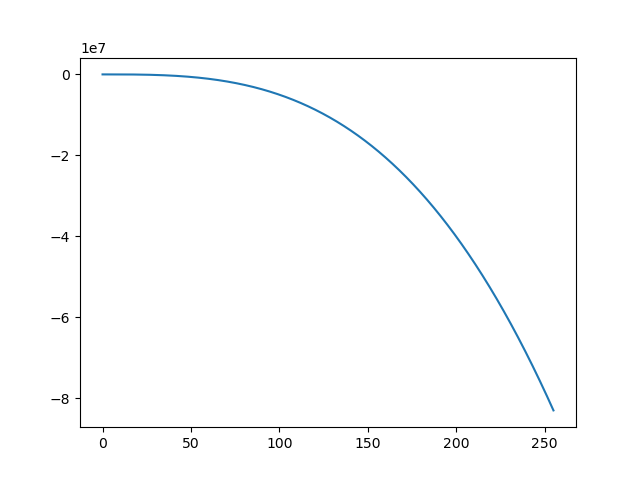
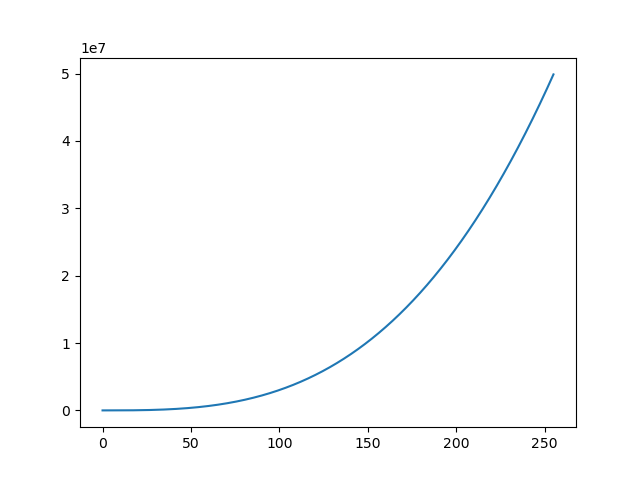
Current

diff --git a/pyQT/main.py b/pyQT/main.py
@@ -3,7 +3,7 @@ import sys
 from PyQt5.QtCore import Qt
 from PyQt5.QtGui import QPixmap
 from PyQt5.QtWidgets import QWidget, QHBoxLayout, QLabel, QVBoxLayout, QSlider, QTabWidget, QComboBox, QLineEdit, \
-    QPushButton, QCheckBox
+    QPushButton, QCheckBox, QFileDialog
 from PyQt5.QtWidgets import QApplication
 
 import cv2
@@ -14,6 +14,12 @@ from pyQT.curveTool import curveTool
 from pyQT.BrightnessSaturation import BrightnessSaturation
 
 class UI:
+
+    #def load_image(self):
+    #   path, _ = QFileDialog.getOpenFileName(None, "Load Image", "")
+    # if path:
+    #      self.load_file(path)
+    #    self.pixmap =
 
     def TabSwitch(self, index):
         if index == 0:
@@ -32,17 +38,21 @@ class UI:
         self.window.update()
 
     def updateWindow(self):
+        self.cvimage = cv2.add()
         self.pixmap = QPixmap('edit.png')
         for i in self.imageLabel:
             i.setPixmap(self.pixmap)
-        self.cvimage = cv2.imread('edit.png')
-        self.cvmask = cv2.imread('selected_mask.jpg')
+        self.current_edit = cv2.imread("current_edit.png")
+        self.cvimageNoBlur = cv2.imread('noBlur.png')
         self.window.update()
 
     def __init__(self):
+        self.imageRecord = []
         cvmainimage = cv2.imread('img.jpg')
         cv2.imwrite('edit.png', cvmainimage)
+        cv2.imwrite('noBlur.png', cvmainimage)
         self.cvimage = cv2.imread('edit.png')
+        self.cvimageNoBlur = cv2.imread('noBlur.png')
         self.cvmask = cv2.imread('selected_mask.jpg')
         app = QApplication(sys.argv)
         self.maskSelection = MaskSelection()
@@ -50,10 +60,11 @@ class UI:
         self.curveTool = curveTool()
         self.brigtnessSaturation = BrightnessSaturation()
         self.window = QWidget()
+        saveFileButton = QPushButton()
         imgSettingLayout = [QHBoxLayout(), QHBoxLayout(), QHBoxLayout(), QHBoxLayout()]
         settingLayout = [QVBoxLayout(), QVBoxLayout(), QVBoxLayout(), QVBoxLayout()]
         self.imageLabel = [QLabel(), QLabel(), QLabel(), QLabel()]
-        pixmap = QPixmap('img.jpg')
+        self.pixmap = QPixmap('img.jpg')
         tabWindow = QTabWidget()
         tabMask = QWidget()
         tabSlider = QWidget()
@@ -65,30 +76,39 @@ class UI:
         tabWindow.currentChanged.connect(self.TabSwitch)
 
         # Tab1
-        labelList = QLabel("item1\nitem2")
         labelInstance = QLabel("Instance Selection")
         labelInstance.setFixedWidth(200)
         dropdownInstance = QComboBox()
+        for mask in self.maskManager.maskList:
+            dropdownInstance.addItem(mask.maskName)
+        dropdownInstance.activated.connect(self.maskManager.instanceDropDownChange)
+
         labelClasses = QLabel("Classes")
         dropdownClasses = QComboBox()
+        for maskClass in self.maskManager.classList:
+            dropdownClasses.addItem(maskClass.groupName)
+        dropdownClasses.activated.connect(self.maskManager.classDropDownChange)
+
         labelGroups = QLabel("Groups")
         dropdownGroups = QComboBox()
         dropdownGroups.addItem("item1")
         dropdownGroups.addItem("item2")
+        dropdownGroups.activated.connect(self.maskManager.groupDropDownChange)
+
         labelSelectedMasksList = QLabel("SelectedMasks")
+        labelList = QLabel("item1\nitem2")
+
         settingLayout[0].setAlignment(Qt.AlignmentFlag.AlignTop)
         settingLayout[0].addWidget(labelInstance)
-        dropdownInstance.addItem("item1")
-        dropdownInstance.addItem("item2")
         settingLayout[0].addWidget(dropdownInstance)
         settingLayout[0].addWidget(labelClasses)
-        dropdownClasses.addItem("item1")
-        dropdownClasses.addItem("item2")
         settingLayout[0].addWidget(dropdownClasses)
         settingLayout[0].addWidget(labelGroups)
         settingLayout[0].addWidget(dropdownGroups)
         settingLayout[0].addWidget(labelSelectedMasksList)
         settingLayout[0].addWidget(labelList)
+        #settingLayout[0].addWidget(saveFileButton)
+        #saveFileButton.pressed.connect(self.load_image)
 
         # Tab2
         labelBrightness = QLabel("Brightness")
@@ -114,6 +134,7 @@ class UI:
         sliderSaturation.valueChanged.connect(self.updateWindow)
 
         # Tab3
+        colorChannelCurve = QComboBox()
         layoutValue = [QHBoxLayout(), QHBoxLayout(), QHBoxLayout()]
         labelValue = [None, None, None]
         lineEditValue = [None, None, None]
@@ -125,7 +146,8 @@ class UI:
             layoutValue[i].addWidget(lineEditValue[i])
             settingLayout[2].addLayout(layoutValue[i])
         for i in range(3):
-            lineEditValue[i].textChanged.connect(lambda: curveTool.valueChange(curveTool, lineEditValue[0].text(), lineEditValue[1].text(), lineEditValue[2].text()))
+            lineEditValue[i].textChanged.connect(lambda: curveTool.valueChange(curveTool, lineEditValue[0].text(), lineEditValue[1].text(), lineEditValue[2].text(), colorChannelCurve.currentText(), self.maskManager.selectedMask, self.cvimageNoBlur))
+            lineEditValue[i].textChanged.connect(self.updateWindow)
         settingLayout[2].setAlignment(Qt.AlignmentFlag.AlignTop)
         self.mathpixmap = QPixmap('plot.png')
         self.labelmathpixmap = QLabel()
@@ -134,7 +156,10 @@ class UI:
         curveButton = QPushButton("Update")
         settingLayout[2].addWidget(curveButton)
         curveButton.clicked.connect(self.updateButton)
-
+        settingLayout[2].addWidget(colorChannelCurve)
+        colorChannelCurve.addItem("Green")
+        colorChannelCurve.addItem("Blue")
+        colorChannelCurve.addItem("Red")
         # Tab4
         kernel = Kernel()
         layoutValue1 = QHBoxLayout()
@@ -152,13 +177,13 @@ class UI:
         layoutValue2.setAlignment(Qt.AlignmentFlag.AlignLeft)
         settingLayout[3].addLayout(layoutValue2)
         settingLayout[3].setAlignment(Qt.AlignmentFlag.AlignTop)
-        labelKernel = QLabel("Kernel Intensity")
+        labelKernel = QLabel("Blur Intensity")
         sliderKernel = QSlider(Qt.Orientation.Horizontal)
         settingLayout[3].addWidget(labelKernel)
         settingLayout[3].addWidget(sliderKernel)
         sliderKernel.setMinimum(1)
         sliderKernel.setMaximum(10)
-        sliderKernel.valueChanged.connect(lambda: kernel.filter_blur(self.cvimage, self.cvmask, sliderKernel.value(), lineEditValue2.checkState()))
+        sliderKernel.valueChanged.connect(lambda: kernel.filter_blur(self.cvimageNoBlur, self.maskManager.selectedMask, sliderKernel.value(), lineEditValue1.checkState(), lineEditValue2.checkState()))
         sliderKernel.valueChanged.connect(self.updateWindow)
         #lineEditValue1.stateChanged.connect(kernel.doBackground)
         #lineEditValue2.stateChanged.connect(kernel.doBlur)
@@ -167,7 +192,7 @@ class UI:
         tabWindow.addTab(tabMask, "Mask")
         tabWindow.addTab(tabSlider, "Adjustments")
         tabWindow.addTab(tabCurve, "CurveTool")
-        tabWindow.addTab(tabKernel, "Kernels")
+        tabWindow.addTab(tabKernel, "Blur")
 
         # Layout
         for i in range(len(imgSettingLayout)):
@@ -189,7 +214,7 @@ class UI:
         tabKernel.setLayout(imgSettingLayout[3])
 
         for i in self.imageLabel:
-            i.setPixmap(pixmap)
+            i.setPixmap(self.pixmap)
 
         # Window manipulation
         self.window.setWindowTitle("PYQT")

diff --git a/pyQT/curveTool.py b/pyQT/curveTool.py
@@ -2,6 +2,7 @@ import numpy as np
 import matplotlib.pyplot as pl
 from PyQt5.QtGui import QPixmap
 from PyQt5.QtWidgets import QLabel
+import cv2
 
 
 class curveTool:
@@ -9,7 +10,7 @@ class curveTool:
     def __init__(self):
         print("ll")
 
-    def valueChange(self, val1, val2, val3):
+    def valueChange2(self, val1, val2, val3, channel, mask, image):
         if self.checkIfNumber(self, val1) and self.checkIfNumber(self, val2) and self.checkIfNumber(self, val3):
             fig = pl.figure()
             self.x = np.arange(0, 255, 0.1)
@@ -17,6 +18,34 @@ class curveTool:
             pl.plot(self.x, self.y)
             fig.savefig('plot.png')
             pl.close(fig)
+            editImage = np.clip(self.convertValue(self, image, val1, val2, val3), 0, 255)
+            maskImage = np.where(mask.maskArray == False, editImage, image)
+            cv2.imwrite("edit.png", maskImage)
+            cv2.imwrite("noBlur.png", maskImage)
+
+    def valueChange(self, val1, val2, val3, channel, mask, image):
+        if self.checkIfNumber(self, val1) and self.checkIfNumber(self, val2) and self.checkIfNumber(self, val3):
+            fig = pl.figure()
+            self.x = np.arange(0, 255, 0.1)
+            self.y = (float(val1) * self.x ** 3) + (float(val2) * self.x ** 2) + (float(val3) * self.x)
+            pl.plot(self.x, self.y)
+            fig.savefig('plot.png')
+            pl.close(fig)
+            newImage = image.copy()
+            b, g, r = cv2.split(newImage)
+            if channel == "Blue":
+                b = np.clip(self.convertValue(self, b, val1, val2, val3), 0, 255)
+            elif channel == "Green":
+                g = np.clip(self.convertValue(self, g, val1, val2, val3), 0, 255)
+            elif channel == "Red":
+                r = np.clip(self.convertValue(self, r, val1, val2, val3), 0, 255)
+            else:
+                return
+            print("test")
+            editImage = cv2.merge((b, g, r))
+            maskImage = np.where(mask.maskArray == True, editImage, image)
+            cv2.imwrite("edit.png", maskImage)
+            cv2.imwrite("noBlur.png", maskImage)
 
     def checkIfNumber(self, var):
         if var is None:
@@ -26,3 +55,10 @@ class curveTool:
             return True
         except:
             return False
+
+    def convertValue(self, value, val1, val2, val3):
+        out = value.copy()
+        with np.nditer(value, op_flags=['readwrite']) as it:
+            for x in it:
+                x[...] = (float(val1) * x ** 3) + (float(val2) * x ** 2) + (float(val3) * x)
+        return out

diff --git a/pyQT/MaskManager.py b/pyQT/MaskManager.py
@@ -12,6 +12,7 @@ class MaskManager:
 
         self.selectedMask = self.maskList[0]
         self.brightnessSaturation = BrightnessSaturation()
+        self.imageRecord = []
 
     def DrawCurrentImage(self):
 
@@ -46,10 +47,14 @@ class MaskManager:
     def instanceDropDownChange(self, index):
         print("Selected instance: " + str(index))
         self.selectedMask = self.maskList[index]
+        self.imageRecord.append(cv2.imread('edit.png'))
+        print(self.imageRecord)
 
     def classDropDownChange(self, index):
         print("Selected class: " + str(index))
         self.selectedMask = self.classList[index]
+        self.imageRecord.append(cv2.imread('edit.png'))
+        print(self.imageRecord)
 
     def groupDropDownChange(self, index):
         print("Selected group: " + str(index))
@@ -64,3 +69,7 @@ class MaskManager:
 
     def saturationChange(self, sliderValue):
         print(sliderValue)
+
+
+    def getImageRecord(self):
+        return self.imageRecord

diff --git a/pyQT/kernel.py b/pyQT/kernel.py
@@ -9,14 +9,16 @@ class Kernel:
         self.image = None
         self.background = False
 
-    def filter_blur(self, image, mask, str, background):
-        blur = cv2.blur(image, (str, str))
-        if background:
-            blur = np.where(mask == 0, blur, image)
+    def filter_blur(self, image, mask, str, background, apply):
+        if(apply):
+            blur = cv2.blur(image, (str, str))
+            if background:
+                blur = np.where(mask.maskImage == 0, blur, image)
+            else:
+                blur = np.where(mask.maskImage == 255, blur, image)
+            cv2.imwrite('edit.png', blur)
         else:
-            blur = np.where(mask == 255, blur, image)
-        cv2.imwrite('edit.png', blur)
-
+            cv2.imwrite('edit.png', image)
 
 
 

diff --git a/pyQT/BrightnessSaturation.py b/pyQT/BrightnessSaturation.py
@@ -43,6 +43,7 @@ class BrightnessSaturation:
 
         maskImage = np.where(mask.maskArray == True, newImg, self.testImg)
         cv2.imwrite("edit.png", maskImage)
+        cv2.imwrite("noBlur.png", maskImage)
 
 
     def saturationChange(self, sliderNumber, mask):
@@ -68,3 +69,4 @@ class BrightnessSaturation:
 
         maskImage = np.where(mask.maskArray == True, newImg, self.testImg)
         cv2.imwrite("edit.png", maskImage)
+        cv2.imwrite("noBlur.png", maskImage)
